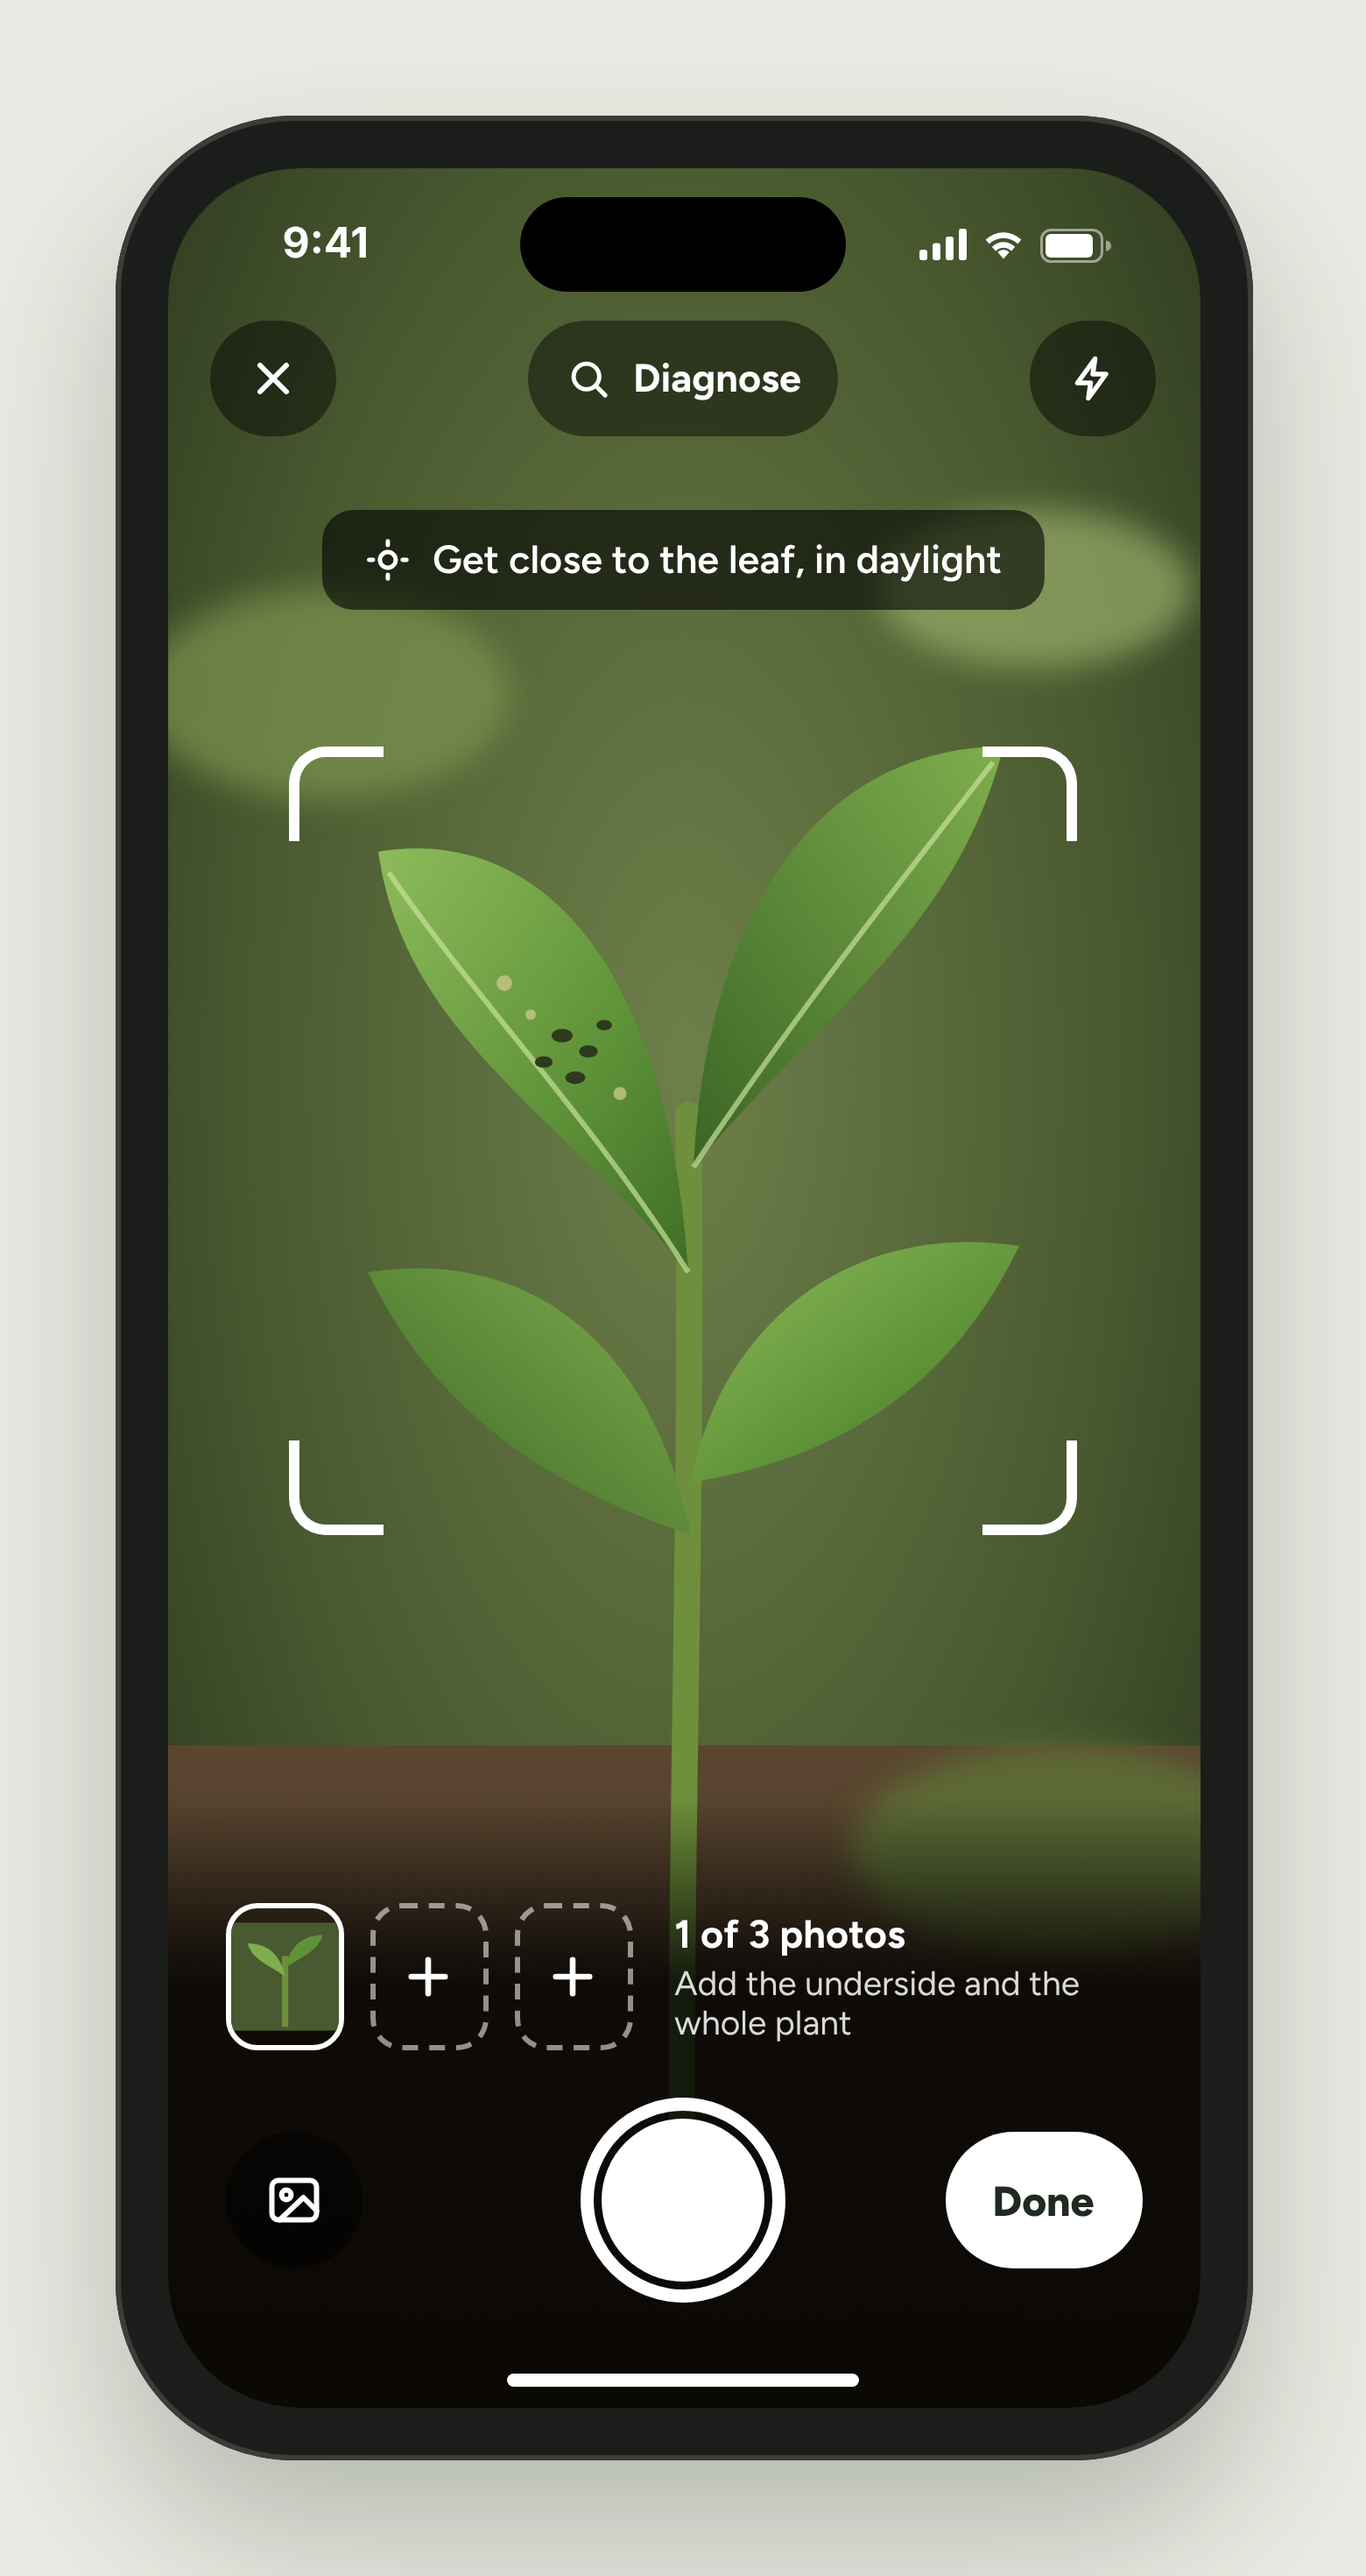
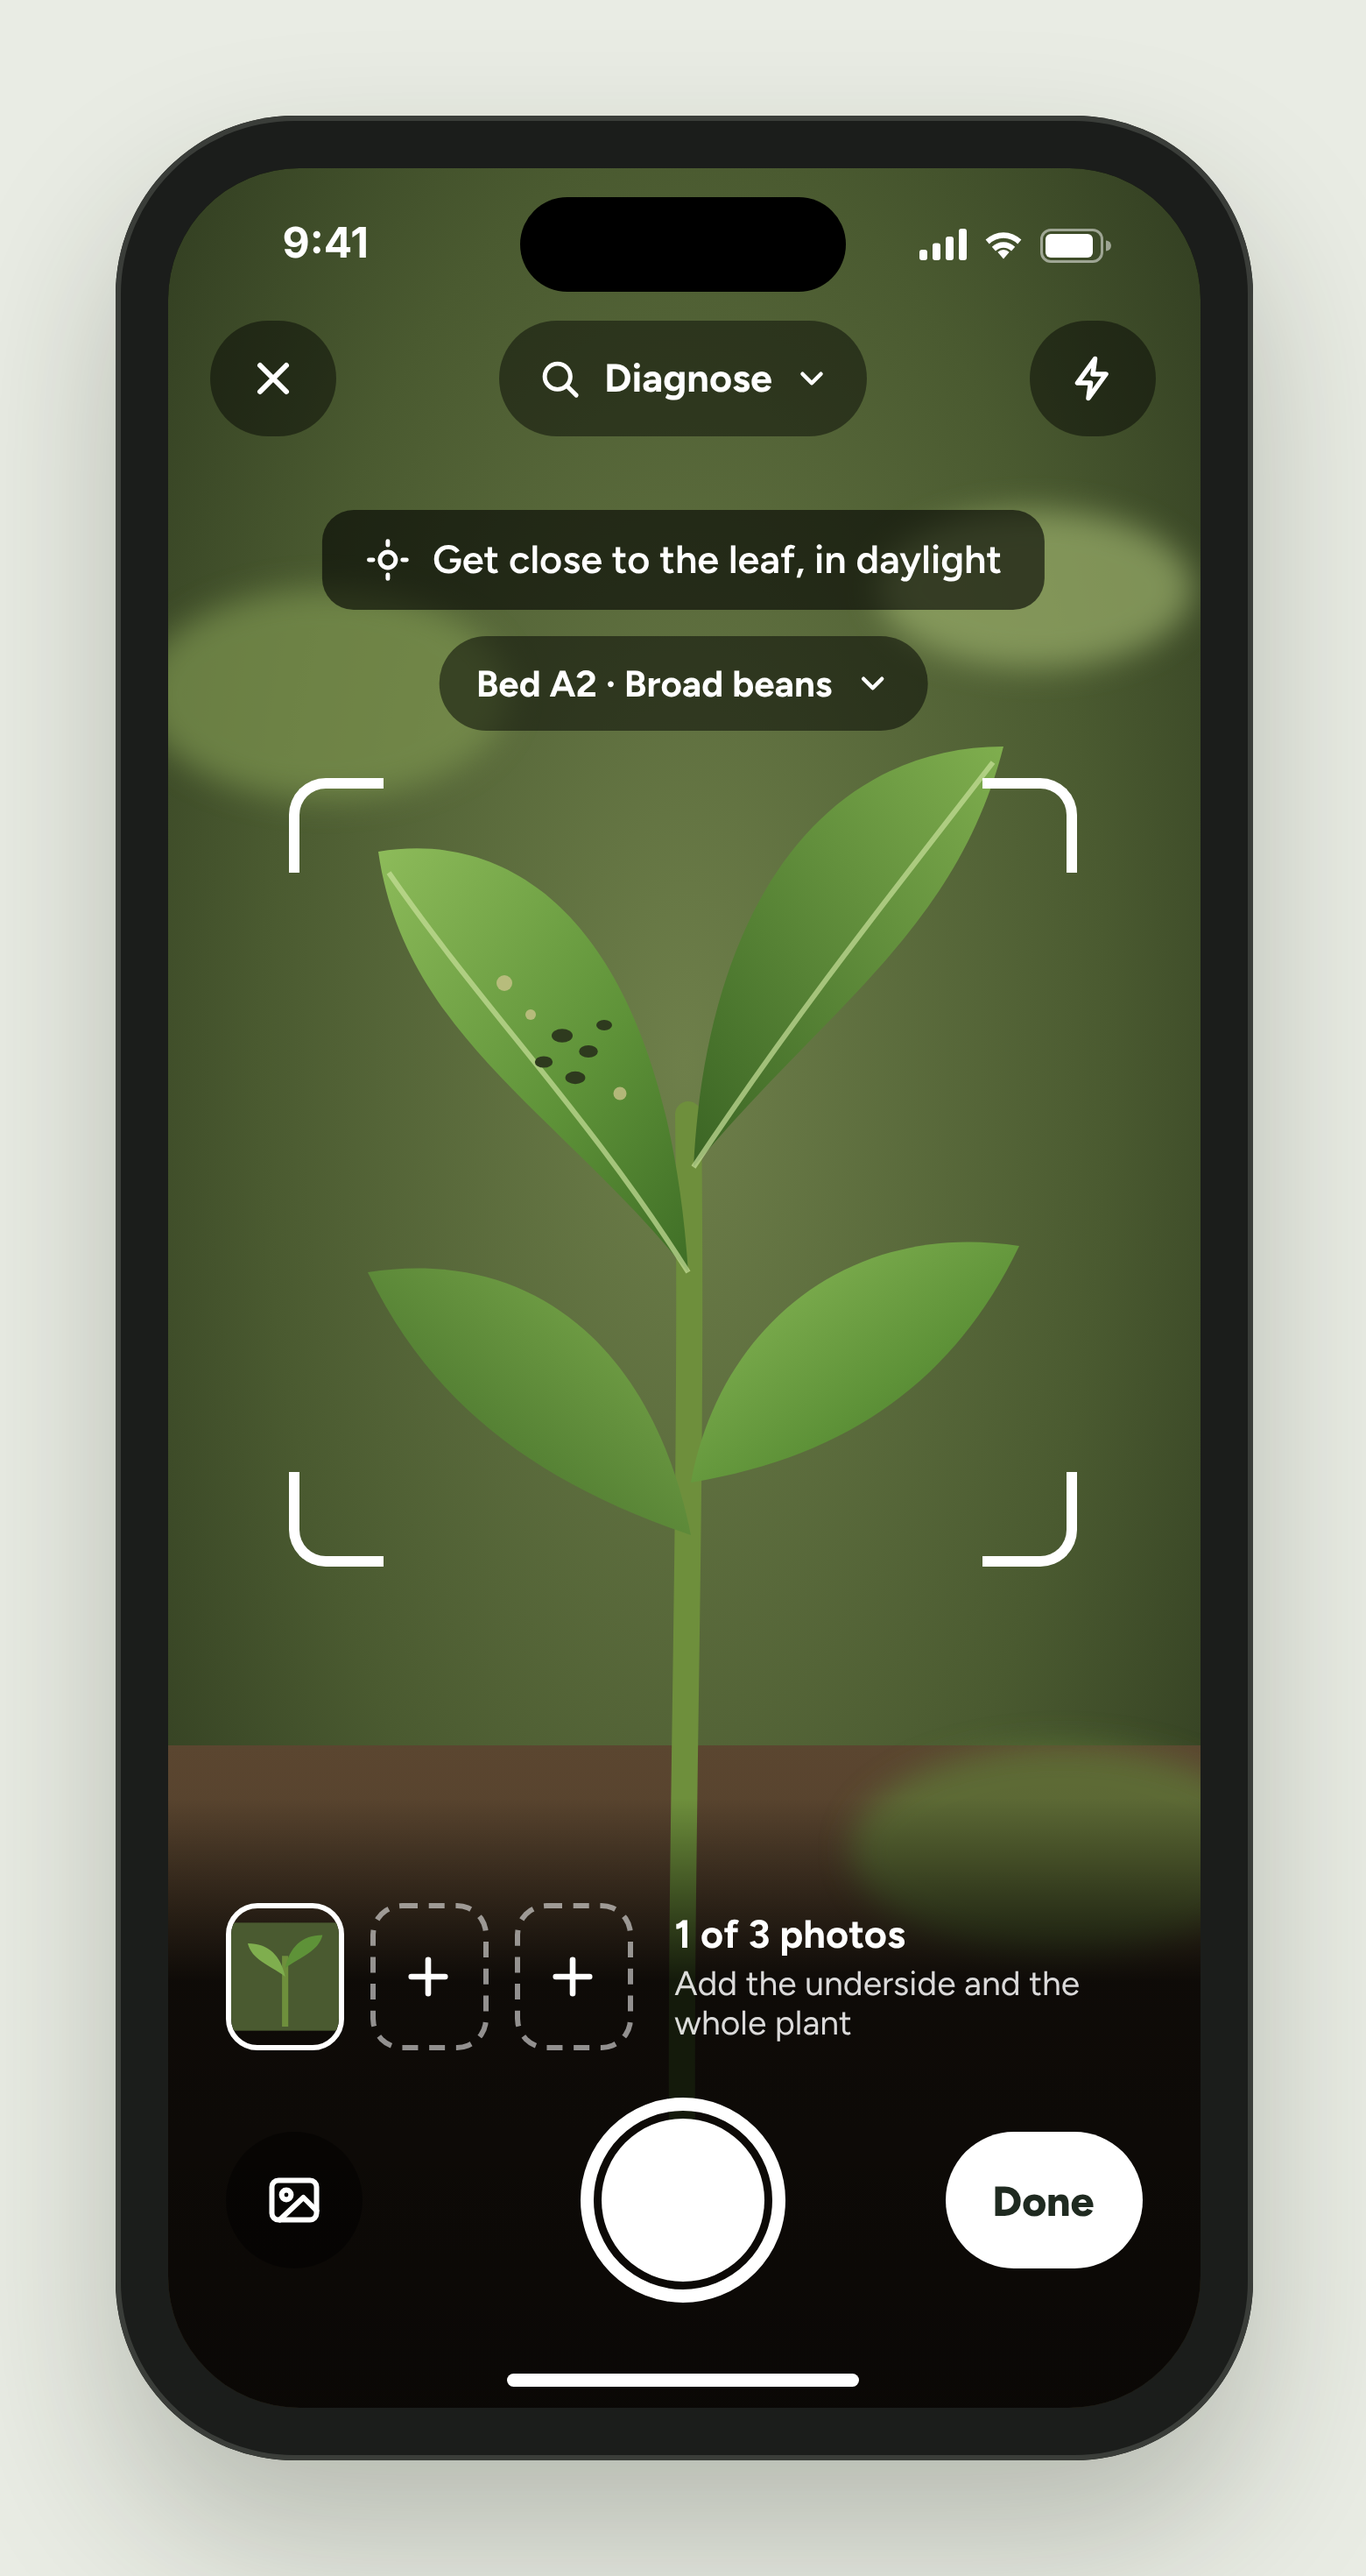
Design D2 camera: bed chip for context, mode switcher
Claude-Session: https://claude.ai/code/session_015NynAjU4naPZwzmeuGazot

diff --git a/design/source/D2-camera.html b/design/source/D2-camera.html
@@ -12,7 +12,7 @@
   .topbar { position: relative; z-index: 20; display: flex; justify-content: space-between; align-items: center; padding: 4px 16px 0; }
   .glass { height: 44px; min-width: 44px; border-radius: 999px; background: rgba(0,0,0,.45); color: #fff; display: flex; align-items: center; justify-content: center; gap: 8px; padding: 0 14px; font-size: 15px; font-weight: 700; }
   .tip { position: absolute; z-index: 20; top: 130px; left: 50%; transform: translateX(-50%); background: rgba(0,0,0,.6); color: #fff; font-size: 15px; font-weight: 600; padding: 10px 16px; border-radius: 12px; white-space: nowrap; display: flex; gap: 8px; align-items: center; }
-  .frame { position: absolute; z-index: 15; left: 46px; top: 220px; width: 300px; height: 300px; }
+  .frame { position: absolute; z-index: 15; left: 46px; top: 232px; width: 300px; height: 300px; }
   .frame i { position: absolute; width: 36px; height: 36px; border: 4px solid #fff; }
   .bottom { position: absolute; left: 0; right: 0; bottom: 0; z-index: 20; background: linear-gradient(rgba(0,0,0,0), rgba(0,0,0,.82) 30%); padding: 40px 22px 40px; display: flex; flex-direction: column; gap: 18px; }
   .thumbs { display: flex; align-items: center; gap: 10px; }
@@ -65,7 +65,7 @@
 
   <div class="topbar">
     <div class="glass" aria-label="Close"><svg width="20" height="20" viewBox="0 0 24 24" fill="none" stroke="#fff" stroke-width="2.4" stroke-linecap="round"><path d="M6 6l12 12M18 6L6 18"/></svg></div>
-    <div class="glass"><svg width="18" height="18" viewBox="0 0 24 24" fill="none" stroke="#fff" stroke-width="2.2" stroke-linecap="round"><circle cx="11" cy="11" r="6.5"/><path d="M16 16l4.5 4.5"/></svg>Diagnose</div>
+    <div class="glass"><svg width="18" height="18" viewBox="0 0 24 24" fill="none" stroke="#fff" stroke-width="2.2" stroke-linecap="round"><circle cx="11" cy="11" r="6.5"/><path d="M16 16l4.5 4.5"/></svg>Diagnose<svg width="14" height="14" viewBox="0 0 24 24" fill="none" stroke="#fff" stroke-width="2.6" stroke-linecap="round" stroke-linejoin="round"><path d="M6 9l6 6 6-6"/></svg></div>
     <div class="glass" aria-label="Flash"><svg width="20" height="20" viewBox="0 0 24 24" fill="none" stroke="#fff" stroke-width="2.2" stroke-linecap="round" stroke-linejoin="round"><path d="M13 3L5 14h6l-1 7 8-11h-6z"/></svg></div>
   </div>
 
@@ -74,6 +74,7 @@
     Get close to the leaf, in daylight
   </div>
 
+  <div class="glass" style="position: absolute; z-index: 20; top: 178px; left: 50%; transform: translateX(-50%); height: 36px; font-size: 14px; white-space: nowrap; background: rgba(0,0,0,.5)">Bed A2 · Broad beans<svg width="14" height="14" viewBox="0 0 24 24" fill="none" stroke="#fff" stroke-width="2.6" stroke-linecap="round" stroke-linejoin="round"><path d="M6 9l6 6 6-6"/></svg></div>
   <div class="frame">
     <i style="left:0; top:0; border-right:none; border-bottom:none; border-radius: 14px 0 0 0"></i>
     <i style="right:0; top:0; border-left:none; border-bottom:none; border-radius: 0 14px 0 0"></i>
